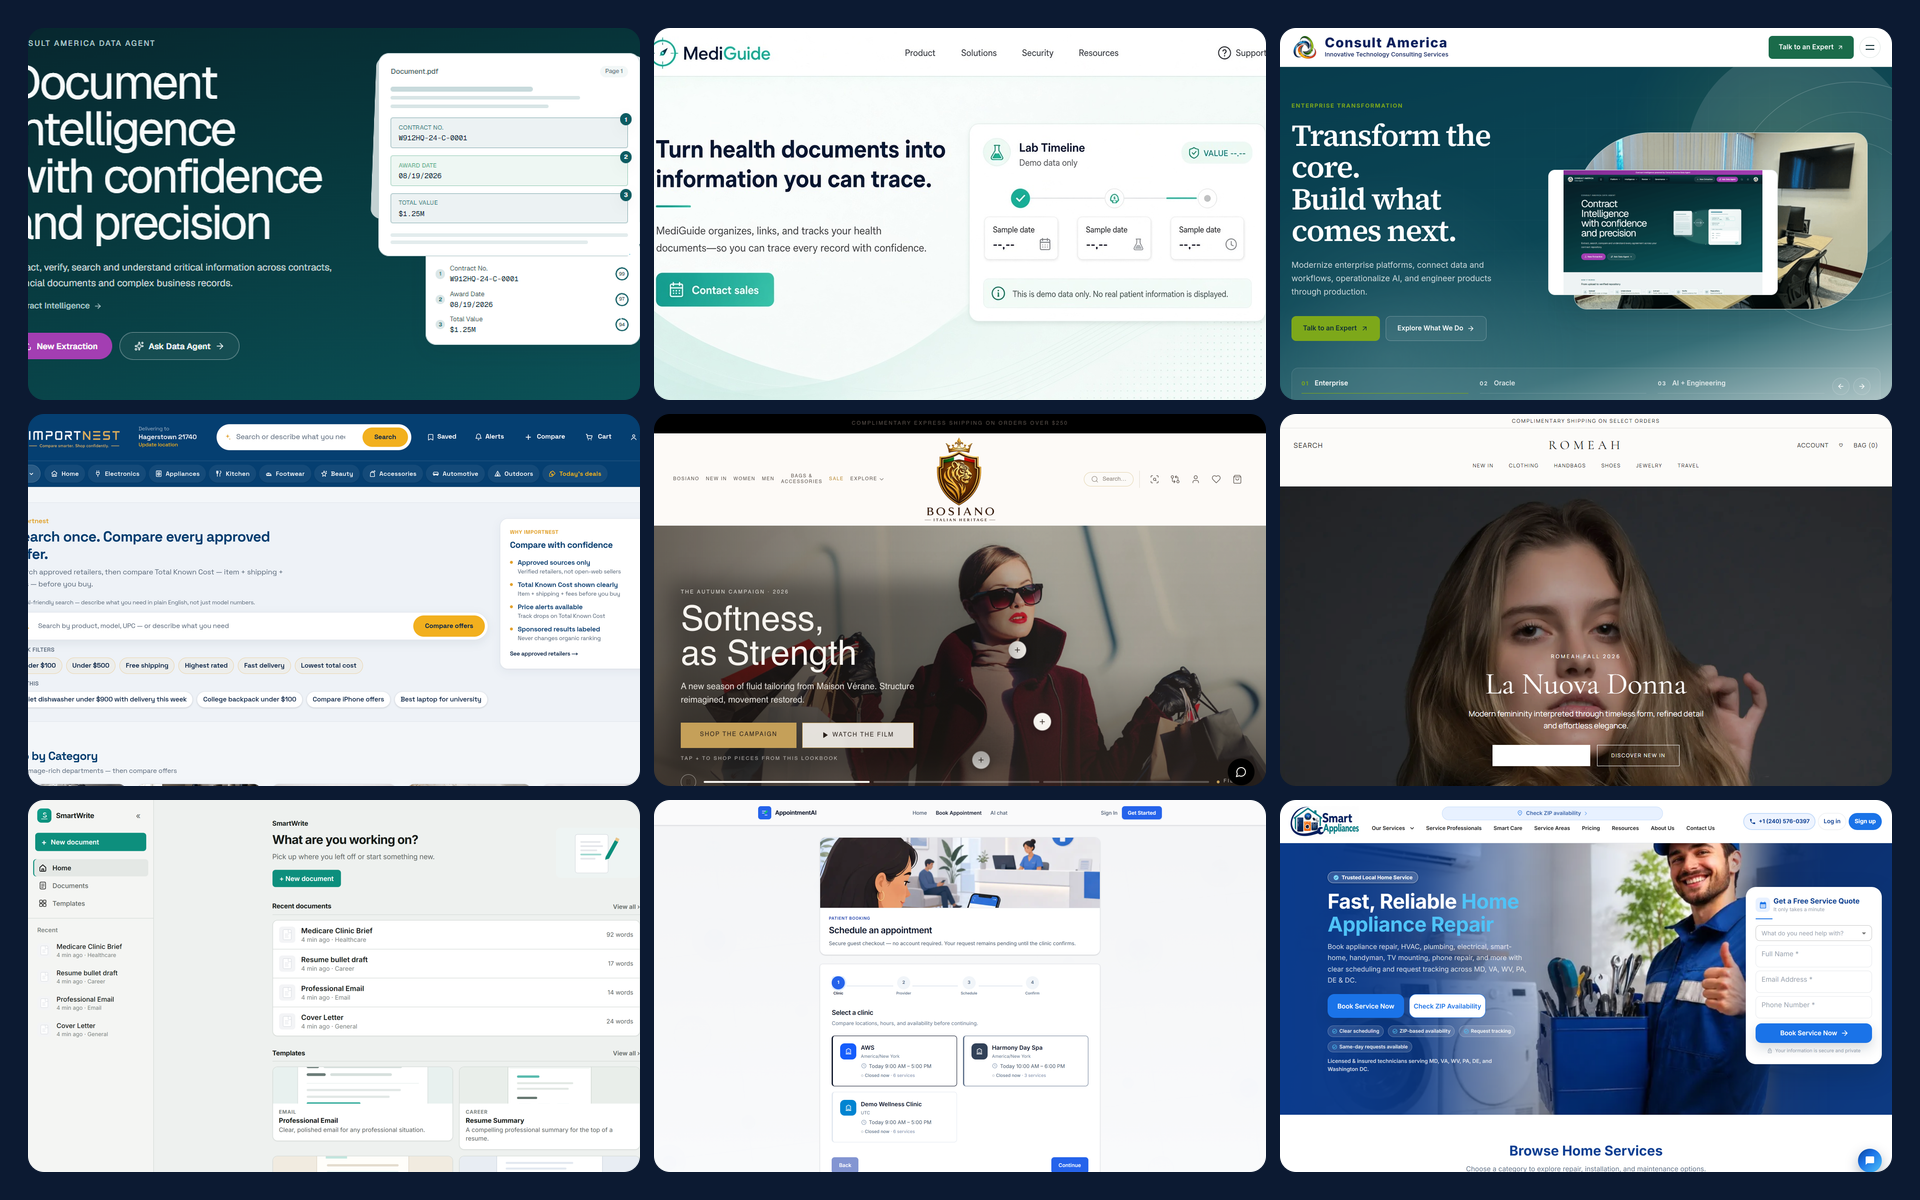
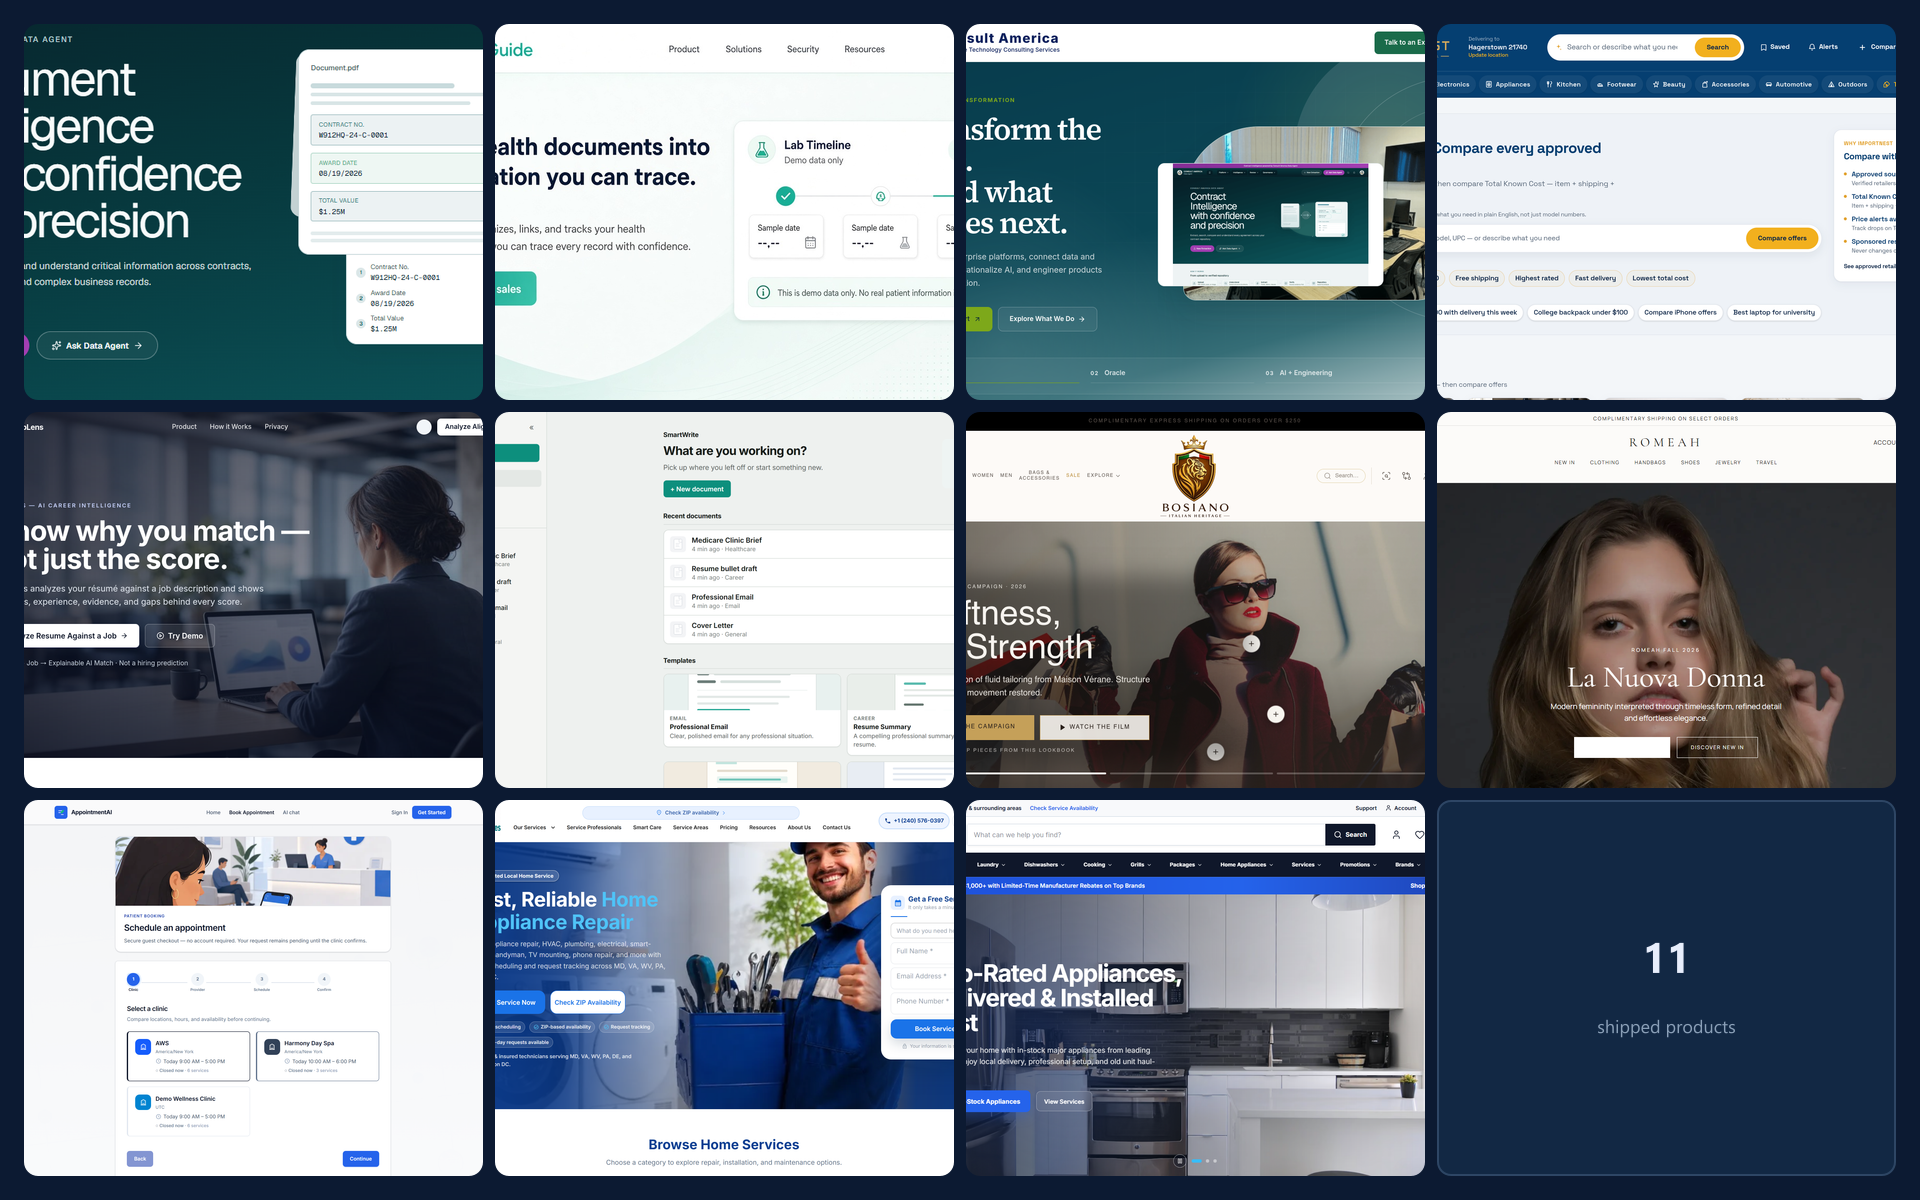
Refresh hero collage to show all 11 shipped products including SmartWrite.
Rebuild the mosaic as a 4×3 grid with JobLens, Sarco and a valid SmartWrite tile, plus an 11-product count badge.

diff --git a/src/app/portfolio/page.tsx b/src/app/portfolio/page.tsx
@@ -77,7 +77,7 @@ export default function PortfolioPage() {
                   <p className="text-[10px] font-medium uppercase tracking-[0.16em] text-slate-400">
                     Shipped products
                   </p>
-                  <p className="mt-1 text-sm font-semibold text-white">Across the portfolio</p>
+                  <p className="mt-1 text-sm font-semibold text-white">11 products across the portfolio</p>
                   <p className="mt-0.5 text-[12px] text-slate-400">
                     AI · Healthcare · Commerce · Scheduling · Services
                   </p>
